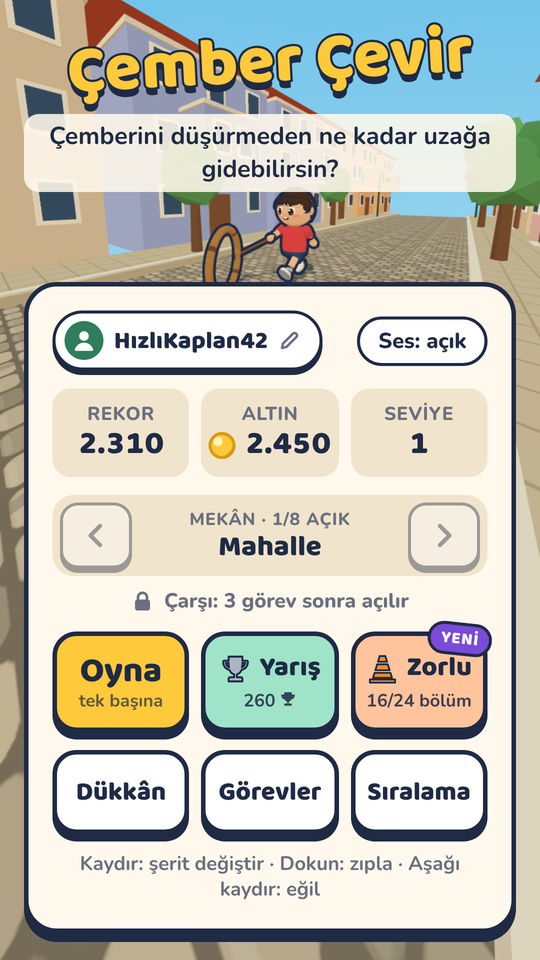
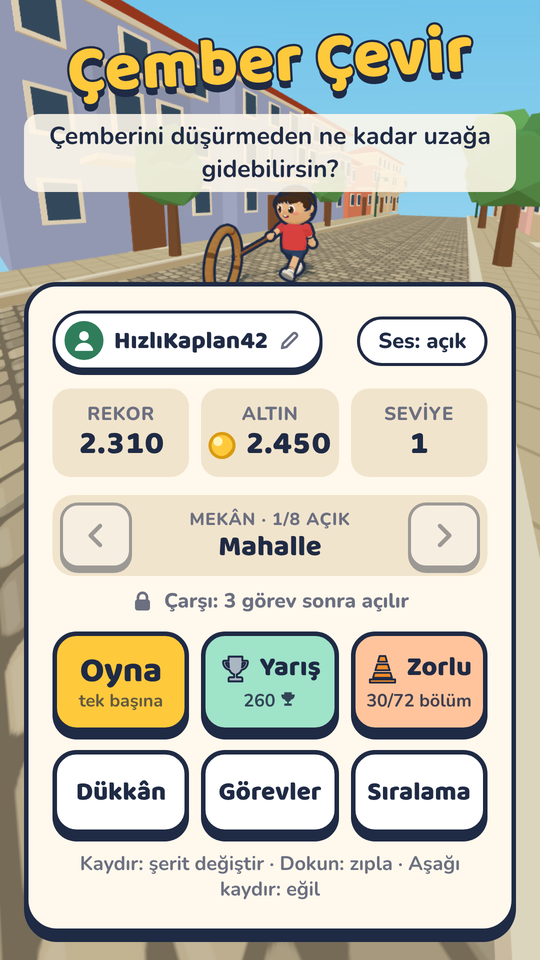
Tanıtım sayfası: 72 bölümlük zorlu yollar (gezegenler ve dağlar), yeni ekran görüntüleri
Claude-Session: https://claude.ai/code/session_01MEzAQ3S3hfwtdFP5REtZ8e

diff --git a/index.html b/index.html
@@ -46,7 +46,7 @@
   <div class="resimler">
     <img src="ekran-1.png" alt="Ana menü" loading="lazy">
     <img src="ekran-3.png" alt="Botlarla yarış" loading="lazy">
-    <img src="ekran-4.png" alt="Mars'ta uzay yolu" loading="lazy">
+    <img src="ekran-4.png" alt="Satürn'ün halkasında zorlu yol" loading="lazy">
   </div>
 
   <div class="kart">
@@ -54,7 +54,7 @@
     <ul>
       <li>Mahalleden çarşıya, sahilden karlı sokaklara 8 farklı mekân</li>
       <li>Botlarla ve arkadaşlarınla online yarış, kupalar ve ligler</li>
-      <li>24 bölümlük zorlu yollar: Ay, Mars ve uzaylı gezegeni</li>
+      <li>72 bölümlük zorlu yollar: bütün gezegenler, Ay ve Türkiye'nin dağları</li>
       <li>Karakterler, kıyafetler, çemberler, çubuklar ve özel ayakkabılar</li>
       <li>Zorla reklam yok: istersen kısa bir reklam izleyip can ya da altın kazanırsın. Sohbet yok, gerçek ad istenmez</li>
     </ul>
